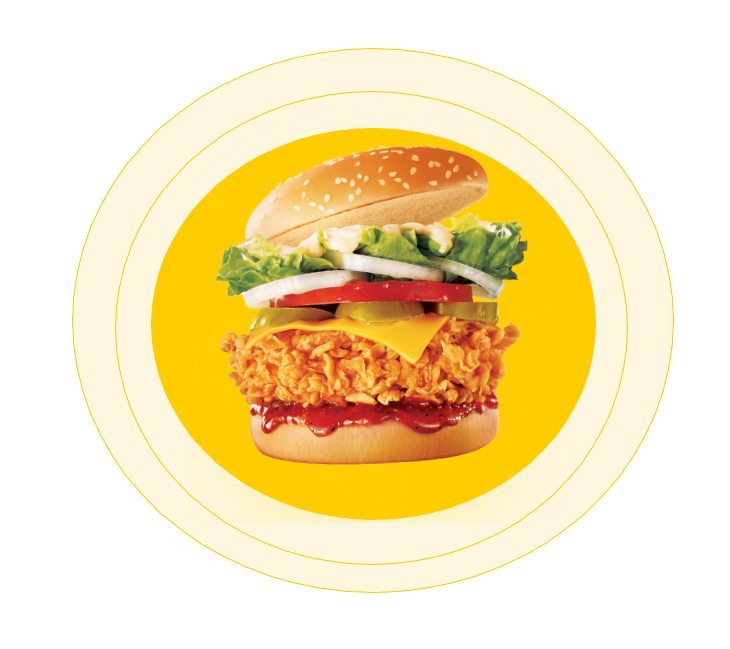
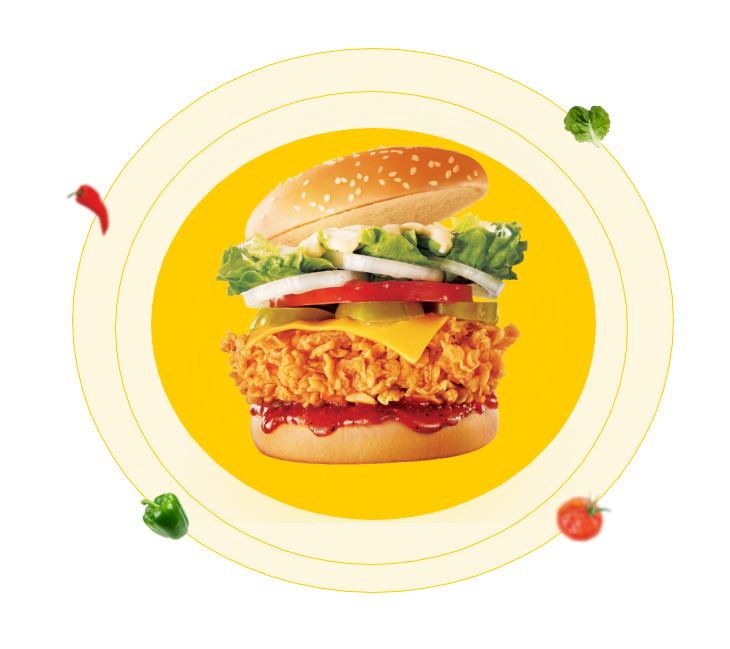
finished

diff --git a/src/component/about/About.jsx b/src/component/about/About.jsx
@@ -2,14 +2,17 @@ import React from 'react'
 
 const About = () => {
     return (
-        <section id='about'>
-            <img src="/images/kisspng-hamburger-fast-food-burger-king-fizzy-drinks-frenc-huba-neuburg-tex-mex-burger-cocktails-5b21ebf2b03284.6482276015289497467217(1).png" alt="cheese burger falling into place with letuce onion tomato" />
-            <div>
-                <h2>Taste the best burger</h2>
-                <p>we make every burger with hi-quality bun<br /> and fresh vegetables and meats so it<br /> taste real and authentic</p>
-                <button>learn more</button>
-            </div>
-        </section>
+        <div >
+            <section id='about'>
+                <img src="/images/kisspng-hamburger-fast-food-burger-king-fizzy-drinks-frenc-huba-neuburg-tex-mex-burger-cocktails-5b21ebf2b03284.6482276015289497467217(1).png" alt="cheese burger falling into place with letuce onion tomato" />
+                <div>
+                    <h2>Taste the best burger</h2>
+                    <p>we make every burger with hi-quality bun<br /> and fresh vegetables and meats so it<br /> taste real and authentic</p>
+                    <button>learn more</button>
+                </div>
+            </section>
+            <img id='chicken' src="\images\kisspng-crispy-fried-chicken-fast-food-frying-fried-chicken-5a8917ee465998.4472902015189339982882.png" alt="" />
+        </div>
     )
 }
 

diff --git a/src/component/hero/Header.jsx b/src/component/hero/Header.jsx
@@ -13,6 +13,7 @@ const Header = () => {
                     <img id='hero-img' src="/images/00.png" alt="chicken sandwich with lettuce tomatoe onions cheese pickles and ketchup" />
                 </div>
             </div >
+
             <div id='miniMenu'>
                 <div className='menuCard'>
                     <div className='circle one'>
@@ -42,6 +43,9 @@ const Header = () => {
                         <p>$10.30</p>
                     </div>
                 </div>
+            </div>
+            <div id='fries'>
+                <img src="\images\kisspng-french-fries-deep-frying-junk-food-french-fries-5a81fb02577680.2267572515184678423583.png" alt="french fries" />
             </div>
         </header >
     )

diff --git a/src/component/featuredItems/Featured.jsx b/src/component/featuredItems/Featured.jsx
@@ -41,6 +41,9 @@ const Featured = () => {
                     <button className='square'>Buy now</button>
                 </div>
             </section>
+            <div id='parsley'>
+                <img src="\images\kisspng-mentha-spicata-peppermint-maghrebi-mint-tea-mentha-mint-png-clipart-5a74b43eb9ca18.242593481517597758761.png" alt="" />
+            </div>
         </>
     )
 }

diff --git a/src/App.css b/src/App.css
@@ -292,3 +292,22 @@ nav{
   color: #141414;
   letter-spacing: 0px;
 }
+
+#fries {
+  display: flex;
+  flex-direction: column-reverse;
+}
+
+#fries img{
+  width: 20%;
+  margin-left: -10%;
+}
+
+#chicken {
+  margin-left: 80%;
+}
+
+#parsley{
+  margin-top: 4%;
+  margin-left: -7%;
+}
